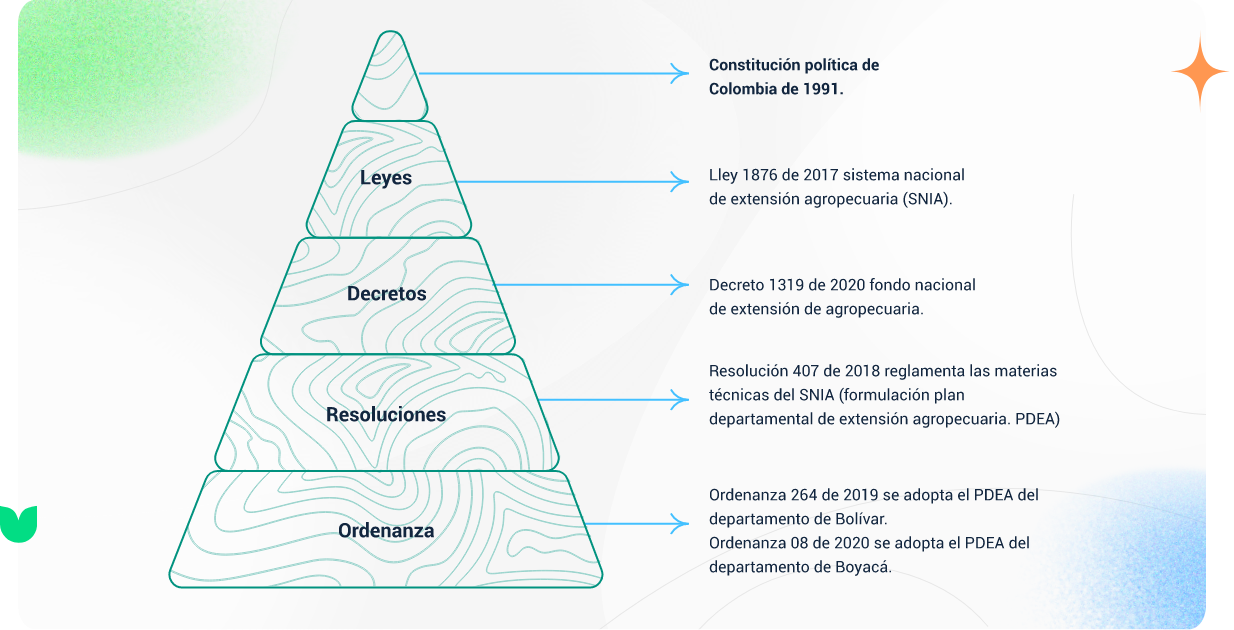
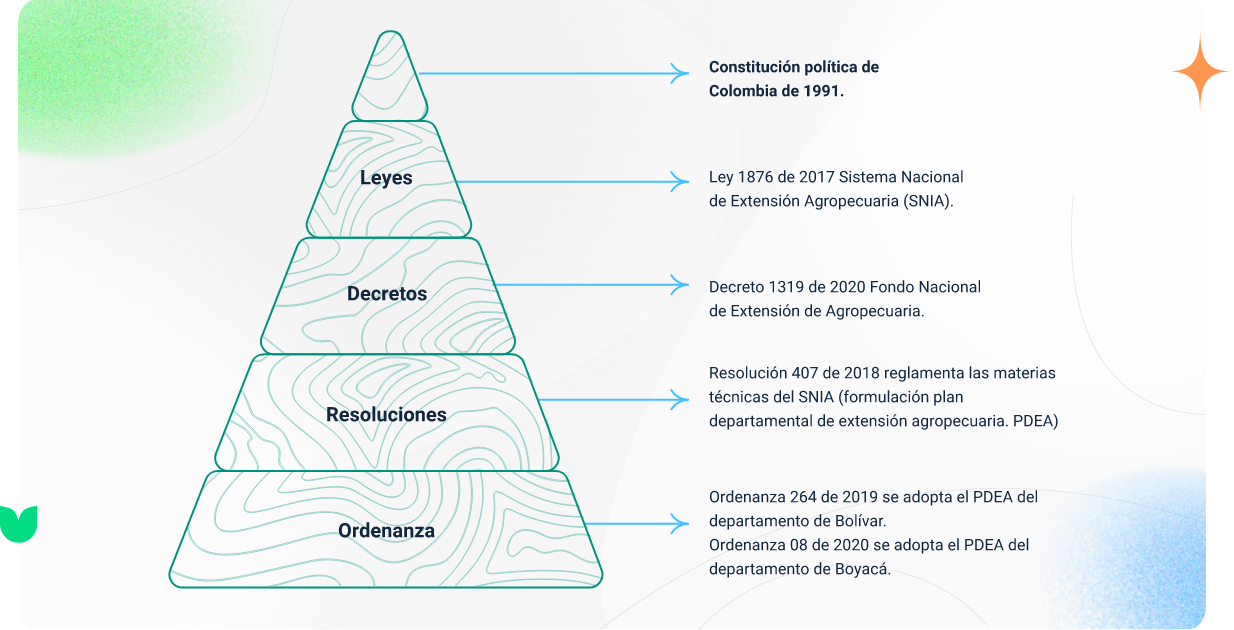
up hallazgos

diff --git a/src/views/Tema2.vue b/src/views/Tema2.vue
@@ -55,7 +55,7 @@
         .row.justify-content-center.align-items-center
           .col-lg-12
             figure.mb-5
-              img(src='@/assets/curso/temas/tema2/img-3.png', alt='')
+              img(src='@/assets/curso/temas/tema2/img-3.png', alt='Muestra el componente formativo la Jerarquía de las normas en Colombia:Constitución política de Colombia de 1991. Leyes, Ley 1876 de 2017 Sistema Nacional de Extensión Agropecuaria (SNIA) Decreto 1319 de 2020 Fondo Nacional de Extensión de Agropecuaria. Resolución 407 de 2018 reglamenta las materias técnicas del SNIA (formulación Plan Departamental de Extensión Agropecuaria. PDEA) Ordenanza 264 de 2019 se adopta el PDEA del departamento de Bolívar. Ordenanza 08 de 2020 se adopta el PDEA del departamento de Boyacá.')
               figcaption Nota. Elaboración propia. Normatividad del sector agropecuario en Colombia.
 
 
@@ -69,23 +69,23 @@
           img(src='@/assets/curso/temas/tema2/img-4.png', alt='')         
       .col-lg-8      
         p.mb-4 La Ley 1876 de diciembre 27 de 2017 del Sistema Nacional de Innovación Agropecuaria, se establece con el objeto de crear y poner en marcha el Sistema Nacional de Innovación Agropecuaria (SNIA), compuesto por subsistemas, planes estratégicos, instrumentos de planificación y participación, plataformas de gestión, procedimientos para su implementación, así como mecanismos para su financiación, seguimiento y evaluación; además crea nuevas funciones, competencias y mecanismos de articulación de las entidades y organismos de coordinación del orden nacional y territorial que componen el SNIA y crea el servicio público de extensión agropecuaria y normas para su prestación (Diciembre 27 de 2017 DO N° 50.461).
-        p.mb-5 La Ley 1876 de 2017 se crea en el artículo 4 del SNIA, como un subsistema del Sistema Nacional de Competitividad, Ciencia, Tecnología e Innovación (SNCCT), que será coordinado por el Ministerio de Agricultura y Desarrollo Rural (MADR); el SNIA está integrado por tres subsistemas:
+        p.mb-5 La Ley 1876 de 2017 se crea en el artículo 4 del SNIA, como un Subsistema del Sistema Nacional de Competitividad, Ciencia, Tecnología e Innovación (SNCCT), que será coordinado por el Ministerio de Agricultura y Desarrollo Rural (MADR); el SNIA está integrado por tres subsistemas:
         .row.justify-content-center.align-items-center
           .row.tt.mb-2.justify-content-center.align-items-center
             .col-1
               h1.mb-0 01	
             .col-11              
-              h5.mb-0.ps-3 Subsistema nacional de investigación y desarrollo tecnológico agropecuario
+              h5.mb-0.ps-3 Subsistema Nacional de Investigación y Desarrollo Tecnológico Agropecuario
           .row.tt.mb-2.justify-content-center.align-items-center
             .col-1
               h1.mb-0 02	
             .col-11              
-              h5.mb-0.ps-3 Subsistema nacional de extensión agropecuaria
+              h5.mb-0.ps-3 Subsistema Nacional de Extensión Agropecuaria
           .row.tt.justify-content-center.align-items-center
             .col-1
               h1.mb-0 03	
             .col-11             
-              h5.mb-0.ps-3 Subsistema Nacional de formación y capacitación para la innovación agropecuaria
+              h5.mb-0.ps-3 Subsistema Nacional de Formación y Capacitación para la Innovación Agropecuaria
 
 
     .row.justify-content-center.align-items-center(data-aos="zoom-in")
@@ -96,7 +96,7 @@
         .row.justify-content-center.align-items-center
           .col-lg-12
             figure.mb-5
-              img(src='@/assets/curso/temas/tema2/img-5-.png', alt='')
+              img(src='@/assets/curso/temas/tema2/img-5-.png', alt='Muestra el componente formativo la estructura del el Sistema Nacional de Innovación Agropecuaria (SNIA). Además, el sistema está integrado por tres subsistemas de acuerdo a la Ley 1876 DE 217: 1. Subsistema Nacional De Investigación Y Desarrollo Tecnológico Agropecuario. 2. Subsistema Nacional De Extensión Agropecuaria. 3. Subsistema Nacional de Formación y Capacitación para la Innovación Agropecuaria.')
               figcaption Nota. Elaboración propia
 
 
@@ -214,8 +214,16 @@
 
     .row.justify-content-center.align-items-center.mb-5(data-aos="fade-left")
       .col-lg-8
-        p <em>La Resolución 407 de 2018 en el Capítulo IV artículo 4.2 adopta los lineamientos para los Planes Departamentales de Extensión Agropecuaria que a continuación se describen:</em>
-        p <em>El PDEA como instrumento de planificación del subsistema de extensión agropecuaria. En la formulación se debe tener en cuenta documentos como el Plan Estratégico de Ciencia Tecnología para el Sector Agropecuario (PECTIA), planes y acuerdos estratégicos, Agendas integradas de competitividad, planes de desarrollo municipal, plan agropecuario municipal y departamental, Planes de Acción para la Transformación del Regional (PART), Planes de Desarrollo con Enfoque Territorial (PDET), Planes Integrales Comunitarios y Municipales de Sustitución y Desarrollo Alternativo (PISDA), Programa Nacional Integral de Sustitución de Cultivos de Uso Ilícito (PNIS), esquemas y planes de ordenamiento territorial vigentes, zonas de protección nacional, regional, local; aptitud y vocación de uso generados por la Unidad de Planificación Rural Agropecuaria (UPRA); Estudio general de suelos para los departamentos; Plan de Manejo y Ordenamiento de Cuencas (POMCA); datos del censo nacional agropecuario 2014.</em>
+        p.mb-5 La Resolución 407 de 2018 en el Capítulo IV artículo 4.2 adopta los lineamientos para los Planes Departamentales de Extensión Agropecuaria que a continuación se describen:
+
+        .bloque-texto-f.color-secundario.pt-4.px-5.fnd-1-.fnd-1
+          .bloque-texto-f__comillas
+            i.fas.fa-quote-left
+            i.fas.fa-quote-right
+          h5.text-regular.bloque-texto-f__texto El PDEA como instrumento de planificación del subsistema de extensión agropecuaria. En la formulación se debe tener en cuenta documentos como el Plan Estratégico de Ciencia Tecnología para el Sector Agropecuario (PECTIA), planes y acuerdos estratégicos, Agendas integradas de competitividad, planes de desarrollo municipal, plan agropecuario municipal y departamental, Planes de Acción para la Transformación del Regional (PART), Planes de Desarrollo con Enfoque Territorial (PDET), Planes Integrales Comunitarios y Municipales de Sustitución y Desarrollo Alternativo (PISDA), Programa Nacional Integral de Sustitución de Cultivos de Uso Ilícito (PNIS), esquemas y planes de ordenamiento territorial vigentes, zonas de protección nacional, regional, local; aptitud y vocación de uso generados por la Unidad de Planificación Rural Agropecuaria (UPRA); Estudio general de suelos para los departamentos; Plan de Manejo y Ordenamiento de Cuencas (POMCA).  
+          
+          .bloque-texto-f__autor.mb-3
+            h5.mb-0 Datos del censo nacional agropecuario 2014.
 
       .col-lg-4.col-md-10
         figure.mb-5
@@ -332,7 +340,7 @@
     .row.justify-content-center.align-items-center(data-aos="fade-left")
       .col-lg-12
         .titulo-sexto.color-acento-contenido
-          h5 Figura 4.
+          h5 
           span Enfoque de extensión agropecuaria desglosado en los cinco aspectos y sus respectivos componentes
         .row.justify-content-center.align-items-center
           .col-lg-12.fnd-9
@@ -523,7 +531,7 @@
               img(src='@/assets/curso/temas/tema4/img-2.svg', alt='')
           .list__tx
             h3.mb-0 Requisitos especiales para la habilitación de las Unidades Municipales de Asistencia Técnica Agropecuaria (UMATA), Centros Provinciales de Gestión Agroempresarial (CPGA)
-        p tanto las UMATA como los CPGA, pueden realizar el proceso de habilitación como EPSEA para poder prestar el servicio de Extensión Agropecuaria en el municipio correspondiente.
+        p Tanto las UMATA como los CPGA, pueden realizar el proceso de habilitación como EPSEA para poder prestar el servicio de Extensión Agropecuaria en el municipio correspondiente.
         .list.mb-3(data-aos="fade-down")
           .list__item
             .list__item__icon
@@ -539,7 +547,7 @@
             img.b-img-avat1(src='@/assets/curso/temas/tema2/img-avat1.svg' alt='Background Image')
             .fl-box-avat1
               h5 Director: 
-              p un (1) profesional en áreas agropecuarias o profesiones afines con el sector agropecuario, medio ambiental o pesquero con tarjeta profesional vigente; así como experiencia en el sector agropecuario, medio ambiente o pesquero no menor de tres (3) años.
+              p Un (1) profesional en áreas agropecuarias o profesiones afines con el sector agropecuario, medio ambiental o pesquero con tarjeta profesional vigente; así como experiencia en el sector agropecuario, medio ambiente o pesquero no menor de tres (3) años.
       .col-lg-7.mb-4
         .row.justify-content-center.align-items-center.img-15
           .img-fnd-avat
@@ -664,7 +672,7 @@
 
     Separador
     #2_6.titulo-segundo.color-acento-contenido
-      h2 2.6. Ley 464 de 29 de diciembre 2017 - Agricultura familiar campesina y comunitaria ACFC.
+      h2 2.6. Ley 464 de 29 de diciembre 2017 - Agricultura familiar campesina y comunitaria ACFC
 
     .row.justify-content-center.align-items-center.mb-5
       .col-lg-8.order-lg-1.order-2
@@ -683,13 +691,13 @@
           .row(titulo="Agricultura campesina, familiar y comunitaria")
             p Sistema de producción y organización gestionado y operado por mujeres, hombres, familias, comunidades campesinas, indígenas, negras, afrodescendientes, raizales y palenqueras que conviven en los territorios rurales del país. En este sistema se desarrollan principalmente actividades de producción, transformación,  comercialización de bienes y servicios agrícolas, pecuarios, pesqueros, acuícolas, silvícolas, entre otros que suelen complementarse con actividades no agropecuarias.
           .row(titulo="Desarrollo rural con enfoque territorial")
-            p es un proceso continuo de transformación, promoción y generación de las condiciones sociales, económicas, ambientales, culturales e institucionales necesarias para que el territorio rural y sus actores, tanto a nivel individual como colectivo. Despliegan sus capacidades y potencialidades a partir de una visión sistémica, holística, integral y compartida del aprovechamiento sostenible del potencial del territorio, para mejorar su productividad y contribuir al bienestar y buen vivir de los pobladores rurales.
+            p Es un proceso continuo de transformación, promoción y generación de las condiciones sociales, económicas, ambientales, culturales e institucionales necesarias para que el territorio rural y sus actores, tanto a nivel individual como colectivo. Despliegan sus capacidades y potencialidades a partir de una visión sistémica, holística, integral y compartida del aprovechamiento sostenible del potencial del territorio, para mejorar su productividad y contribuir al bienestar y buen vivir de los pobladores rurales.
           .row(titulo="Economía campesina, familiar y comunitaria")
-            p sistema de producción, transformación, distribución, comercialización y consumo de bienes y servicios, organizado y gestionado por los hombres, mujeres, familias, y comunidades (campesinas, indígenas, negras, afrodescendientes, raizales y palenqueras) que conviven en los territorios rurales del país.
+            p Sistema de producción, transformación, distribución, comercialización y consumo de bienes y servicios, organizado y gestionado por los hombres, mujeres, familias, y comunidades (campesinas, indígenas, negras, afrodescendientes, raizales y palenqueras) que conviven en los territorios rurales del país.
           .row(titulo="Economía solidaria")
-            p sistema socioeconómico, cultural y ambiental conformado por el conjunto de fuerzas sociales organizadas en formas asociativas identificadas por prácticas autogestionarias solidarias, democráticas y humanistas, sin ánimo de lucro para el desarrollo integral del ser humano como sujeto, actor y fin de la economía (Artículo 2o de la Ley 454 de 1998).
+            p Sistema socioeconómico, cultural y ambiental conformado por el conjunto de fuerzas sociales organizadas en formas asociativas identificadas por prácticas autogestionarias solidarias, democráticas y humanistas, sin ánimo de lucro para el desarrollo integral del ser humano como sujeto, actor y fin de la economía (Artículo 2o de la Ley 454 de 1998).
           .row(titulo="Mercados campesinos y comunitarios")
-            p esquemas de comercialización de bienes y servicios agropecuarios a nivel local caracterizados por: (i) presencia y gestión, de manera exclusiva o principal, por parte de productores y organizaciones de agricultura campesina, familiar y comunitaria; (ii) ausencia o mínima intermediación (limitada a algunos productos no disponibles localmente); (iii) venta de productos frescos, de temporada y procesados; (iv) promoción de alimentos y productos propios del territorio; (v) búsqueda de un precio justo tanto para el productor como para el consumidor; (vi) fomento de la agricultura limpia o agroecológica. 
+            p Esquemas de comercialización de bienes y servicios agropecuarios a nivel local caracterizados por: (i) presencia y gestión, de manera exclusiva o principal, por parte de productores y organizaciones de agricultura campesina, familiar y comunitaria; (ii) ausencia o mínima intermediación (limitada a algunos productos no disponibles localmente); (iii) venta de productos frescos, de temporada y procesados; (iv) promoción de alimentos y productos propios del territorio; (v) búsqueda de un precio justo tanto para el productor como para el consumidor; (vi) fomento de la agricultura limpia o agroecológica. 
 
     .row.justify-content-center.align-items-center.mb-5
       .col-lg-9.order-lg-1.order-2

diff --git a/src/views/Tema4.vue b/src/views/Tema4.vue
@@ -51,16 +51,15 @@
       .fl-box8
         h3.mb-0 Cuarto lugar:
  
-    p.mb-5 Se encuentra la Agencia de Desarrollo Rural (ADR), quien será la encargada de gestionar la articulación de la información de los productores agropecuarios, ya sean desarrollados con recursos públicos o privados, dicha información será utilizada de acuerdo con las normas de Habeas Data. La información reposará en los servidores de la ADR, quien será la encargada de administrar y actuará como responsable en el tratamiento de los datos. De igual forma, la ADR tendrá la facultad de adelantar procesos sancionatorios a través de sus Unidades Técnicas Territoriales (UTT). (Ministerio de Agricultura y Desarrollo Rural Agencia de Desarrollo Rural - ADR, 2019).
+    p.mb-4 Se encuentra la Agencia de Desarrollo Rural (ADR), quien será la encargada de gestionar la articulación de la información de los productores agropecuarios, ya sean desarrollados con recursos públicos o privados, dicha información será utilizada de acuerdo con las normas de Habeas Data. La información reposará en los servidores de la ADR, quien será la encargada de administrar y actuará como responsable en el tratamiento de los datos. De igual forma, la ADR tendrá la facultad de adelantar procesos sancionatorios a través de sus Unidades Técnicas Territoriales (UTT). (Ministerio de Agricultura y Desarrollo Rural Agencia de Desarrollo Rural - ADR, 2019).
+
+    .img-fnd-flot8.mb-3(data-aos="zoom-in")
+      img.b-img8(src='@/assets/curso/temas/tema4/fnd-1.svg' alt='Background Image')
+      .fl-box8
+        h3.mb-0 Quinto lugar:
 
 
-
-    .row.justify-content-center.align-items-center(data-aos="fade-left")
-      .col-xl-8
-        .img-fnd-flot2.mb-5
-          img.b-img2(src='@/assets/curso/temas/tema4/img-8.svg')
-          .fl-box2
-            p.mb-3 Finalmente, se encuentra el Ministerio de Agricultura y Desarrollo Rural (MADR), la cual deberá promover la interoperabilidad de los sistemas de información para incorporar y actualizar la información en el registro de usuarios del servicio de extensión agropecuaria. (Ministerio de Agricultura y Desarrollo Rural Agencia de Desarrollo Rural - ADR, 2019).
+    p.mb-5 Se encuentra el Ministerio de Agricultura y Desarrollo Rural (MADR), la cual deberá promover la interoperabilidad de los sistemas de información para incorporar y actualizar la información en el registro de usuarios del servicio de extensión agropecuaria. (Ministerio de Agricultura y Desarrollo Rural Agencia de Desarrollo Rural - ADR, 2019).
 
 
     .row.justify-content-center.align-items-center(data-aos="fade-left")
@@ -74,7 +73,7 @@
                 img(src='@/assets/curso/temas/tema4/img-2.svg', alt='')
             .list__txt2
               h3.mb-0 Clasificación de usuarios del servicio público de extensión agropecuaria: 
-        p según el Ministerio de Agricultura y Desarrollo Rural Agencia de Desarrollo Rural - ADR, (2019, la clasificación de usuarios de extensión agropecuaria consiste en identificar el nivel en el que se encuentran, por cada uno de los aspectos del enfoque para la prestación de este servicio público, para las diversas actividades productivas. Dicha información obtenida a través de la herramienta dispuesta por el Ministerio de Agricultura y Desarrollo Rural, será el insumo principal para adelantar la clasificación respectiva (Ministerio de Agricultura y Desarrollo Rural Agencia de Desarrollo Rural - ADR, 2019). 
+        p Según el Ministerio de Agricultura y Desarrollo Rural Agencia de Desarrollo Rural - ADR, (2019, la clasificación de usuarios de extensión agropecuaria consiste en identificar el nivel en el que se encuentran, por cada uno de los aspectos del enfoque para la prestación de este servicio público, para las diversas actividades productivas. Dicha información obtenida a través de la herramienta dispuesta por el Ministerio de Agricultura y Desarrollo Rural, será el insumo principal para adelantar la clasificación respectiva (Ministerio de Agricultura y Desarrollo Rural Agencia de Desarrollo Rural - ADR, 2019). 
 
     .list.mb-3(data-aos="fade-down")
       .list__item
@@ -92,7 +91,7 @@
         .row.justify-content-center.align-items-center
           .col-lg-12
             figure.mb-5
-              img(src='@/assets/curso/temas/tema4/img-10.png', alt='')
+              img(src='@/assets/curso/temas/tema4/img-10.png', alt='Muestra los Criterios para la clasificación de usuarios del servicio de extensión agropecuaria. Teniendo en cuenta: Las condiciones, Las capacidades, Logros y progreso')
               figcaption Fuente: MADR – ADR, 2019              
 
 
@@ -113,7 +112,7 @@
         .row.justify-content-center.align-items-center
           .col-lg-12
             figure.mb-5
-              img(src='@/assets/curso/temas/tema4/img-11.png', alt='')
+              img(src='@/assets/curso/temas/tema4/img-11.png', alt='Muestra el componente formativo los Niveles de clasificación de usuarios: Nivel 01 Bajo, Nivel 02 Medio, Nivel 03 Alto, Nivel 04 Superior')
               figcaption Fuente: MADR – ADR, 2019          
 
 
@@ -133,14 +132,14 @@
         .row.justify-content-center.align-items-center
           .col-lg-12
             figure.mb-5
-              img(src='@/assets/curso/temas/tema4/img-12.png', alt='')
+              img(src='@/assets/curso/temas/tema4/img-12.png', alt='Muestra las actividades productivas y componente ambiental, teniendo en cuenta los siguientes niveles: Agrícola, Pecuario, Silvicultura y aprovechamiento de madera, Pesca y acuicultura')
               figcaption Fuente: MADR – ADR, 2019          
 
 
     .row.justify-content-center.align-items-center
       .col-xl-8
         .img-fnd-flot2.mb-5.img-3
-          img.b-img2(src='@/assets/curso/temas/tema4/img-13.svg')
+          img.b-img2(src='@/assets/curso/temas/tema2/fnd-6.svg')
           .fl-box2.fl-box4
             p.mb-3 El método de clasificación se enmarca en aplicar una serie de preguntas por cada componente definido (30), de tal modo que permita una calificación del 1 al 4, donde 1 es el escenario básico y 4 el escenario superior o ideal (Ministerio de Agricultura y Desarrollo Rural Agencia de Desarrollo Rural - ADR, 2019).
 
@@ -175,7 +174,7 @@
                 .col.mb-3.mb-sm-0
                   p.mb-0 Para mayor información sobre los lineamientos establecidos en la resolución 464 de 2017 pueden dirigirse al enlace, donde encontrarán la normatividad vigente en el sector agropecuario en Colombia.
                 .col-sm-auto
-                  a.boton.color-acento-botones(href="https://www.corporacionpba.org/irp/herramientas/Etapa_I/punto_de_partida/paso2_drp/Diagnostico_Rural_Participativo.pdf" target="_blank")
+                  a.boton.color-acento-botones(href="https://www.minagricultura.gov.co/Normatividad/Resoluciones/Resoluci%C3%B3n%20No%20000464%20de%202017.pdf" target="_blank")
                     span Enlace
                     i.fas.fa-file-download
 

diff --git a/src/styles/_custom.sass b/src/styles/_custom.sass
@@ -325,8 +325,6 @@
 
   .b-img-avat2
     display: none
-   
-
   @media (min-width: 1366px)  
     position: relative
     height: 20rem
@@ -357,8 +355,43 @@
       top: 1%
       right: -1%
       width: 68%
+  @media (min-width: 1093px) and (max-width: 1200px) 
+    position: relative
+    height: 32rem
+    .b-img-avat1
+      position: absolute
+      display: block
+      top: 50%
+      left: 16%
+      width: 74%
+      transform: translate(-50%, -50%)
+    .fl-box-avat1
+      position: absolute
+      display: block
+      top: 50%
+      right: -1%
+      width: 49%
+      transform: translateY(-50%)
 
-  @media (min-width: 1093px) and (max-width: 1366px) 
+    .b-img-avat2
+      position: absolute
+      display: block
+      top: 50%
+      left: 17%
+      width: 44%
+      transform: translate(-50%, -50%)
+    
+    .fl-box-avat2
+      position: absolute
+      display: block
+      top: 50%
+      right: -1%
+      width: 62%       
+      transform: translateY(-50%)
+
+
+
+  @media (min-width: 1200px) and (max-width: 1366px) 
     position: relative
     height: 26rem
     .b-img-avat1
@@ -543,6 +576,7 @@
 
 .img-fnd-flot2
   position: relative
+
   width: 100%
   .fl-box2
     color: #fff
@@ -553,7 +587,7 @@
     p
       color: #fff    
   .fl-box4
-    background-color: #FF7A38 
+    background-color: #017662
   .b-img2
       display: none  
   .fl-box3
@@ -576,6 +610,13 @@
       top: 48%
       transform: translateY(-53%)
       width: 91%
+    .fl-box4
+      width: 100%  
+      top: 46%
+      left: 2%
+      transform: translateY(-54%)
+        
+        
   @media (min-width: 992px) and (max-width: 1200px)  
     border-radius: 1rem
     padding: 0

diff --git a/src/config/global.js b/src/config/global.js
@@ -207,7 +207,7 @@ export default {
         ' instrumento de planificación y gestión para la focalización de recursos y de acciones de I+D+i tendientes al fortalecimiento, dinamización y optimización del SNIA en torno al mejoramiento de la productividad y competitividad sectorial. (Congreso de la República, 2017).',
     },
     {
-      termino: 'Plataforma siembra',
+      termino: 'Plataforma Siembra',
       significado:
         ' es el aplicativo electrónico del Ministerio de Agricultura y Desarrollo Rural destinado a la recopilación, gestión, divulgación y seguimiento de la información de los proyectos, resultados, avances y oferta tecnológica sectorial originada en el Sistema Nacional de Innovación Agropecuaria (SNIA). (Congreso de la República, 2017).',
     },
